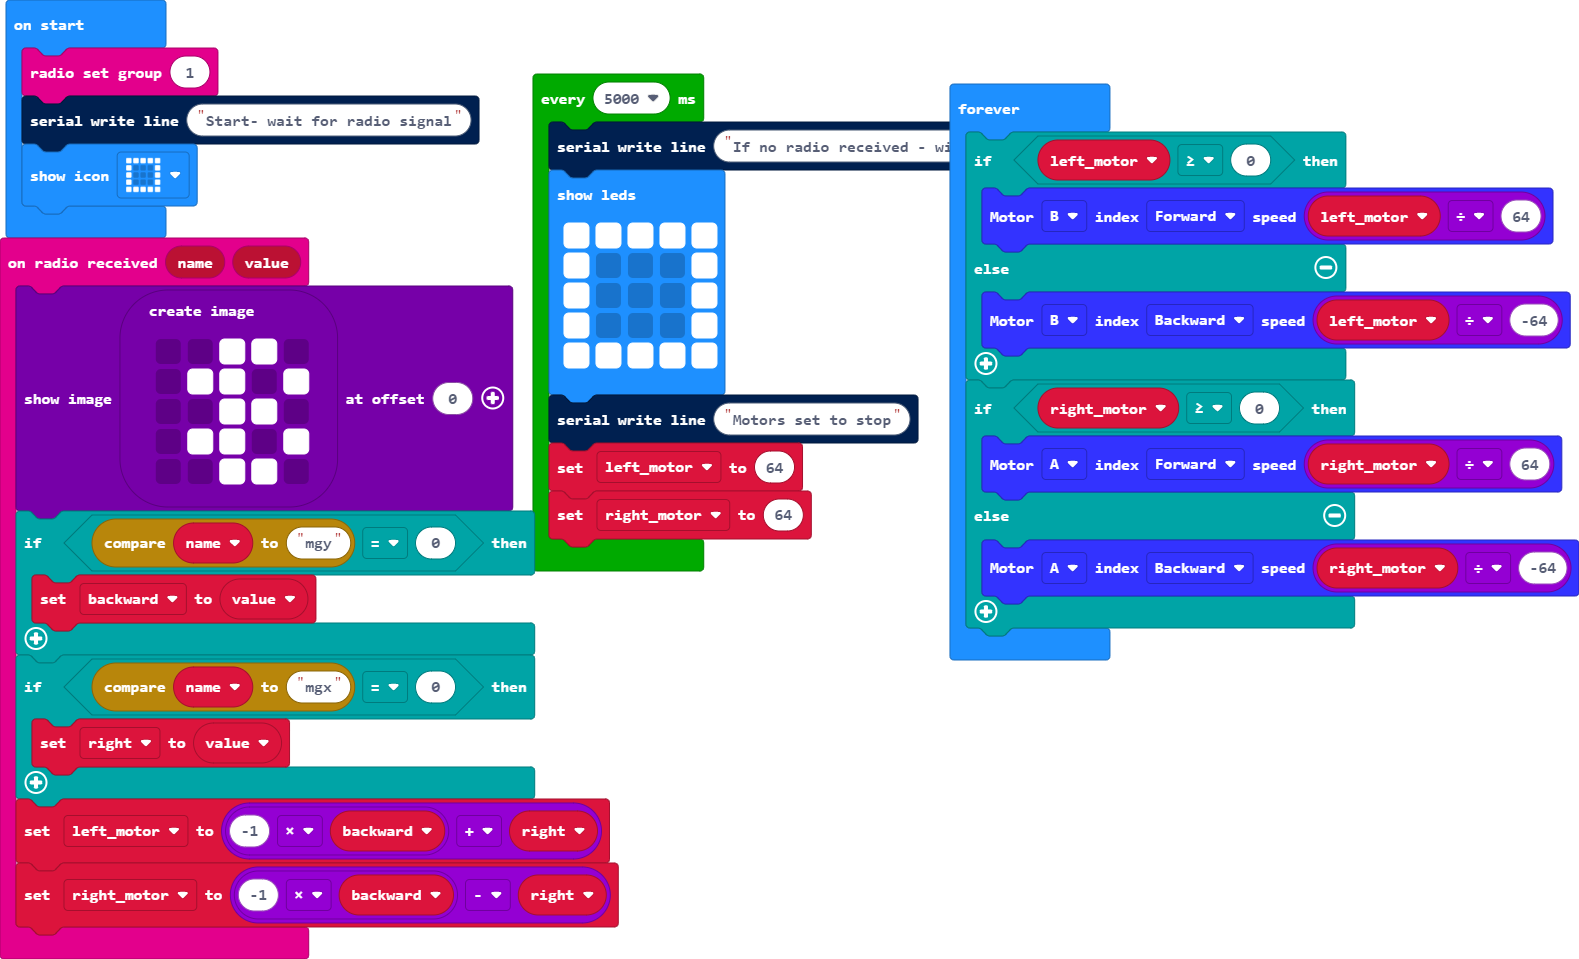
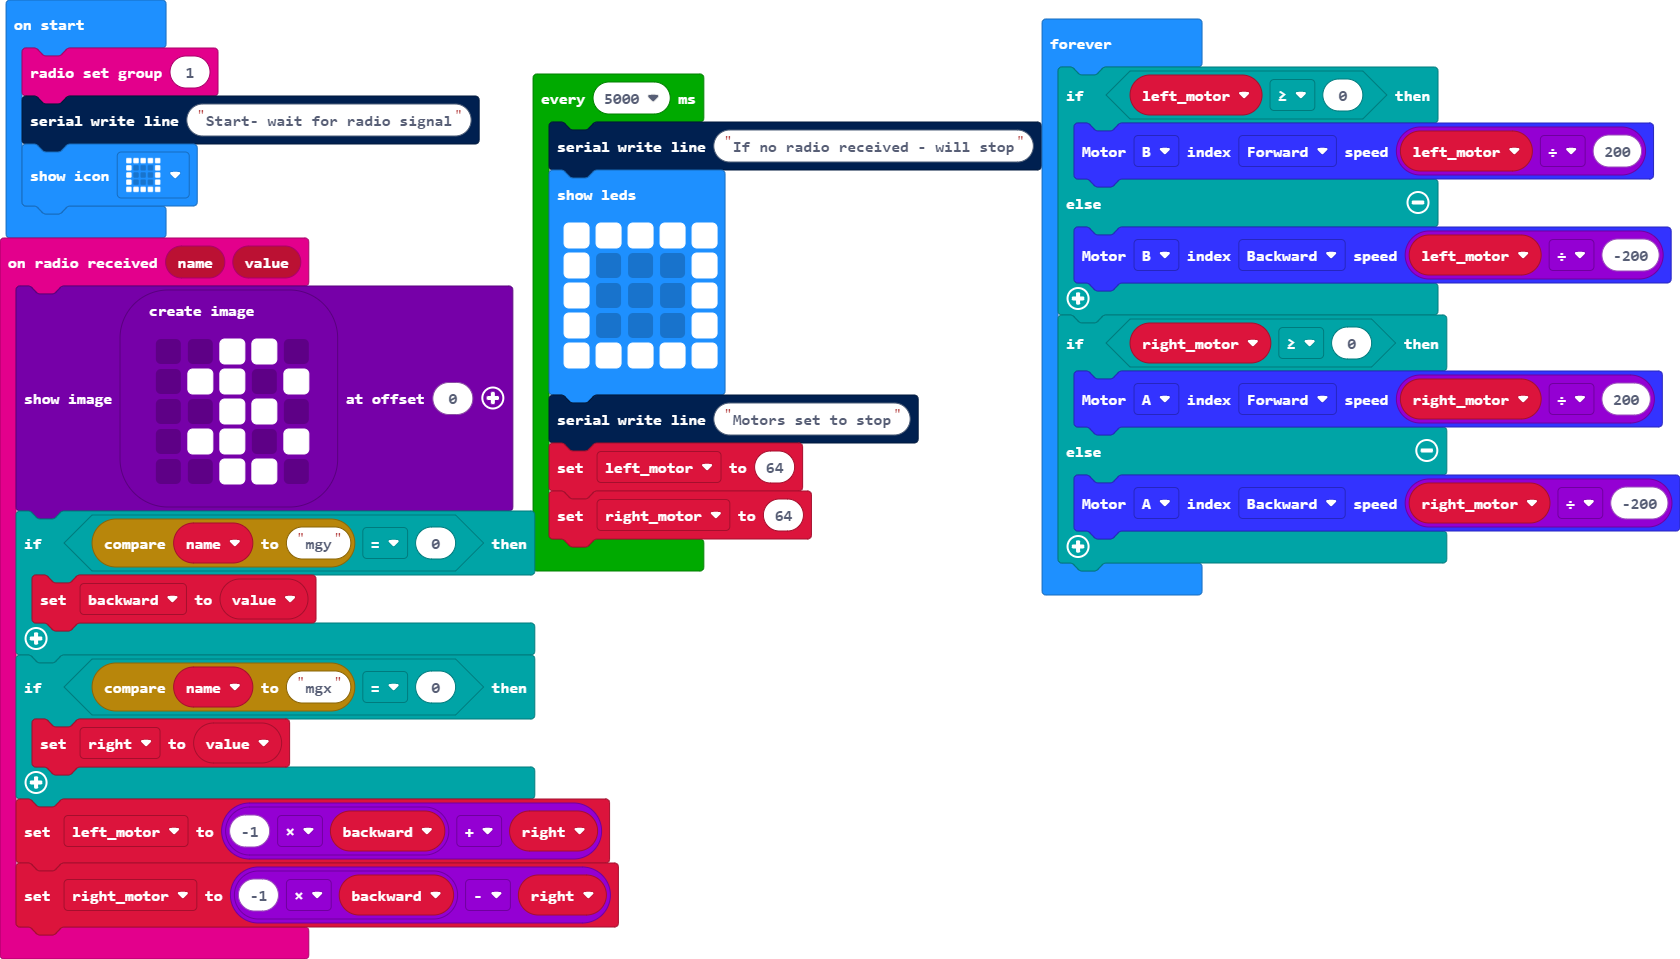
change the coefficient

Changed region(s): [[0.0, 0.0, 1.0, 1.0], [0.0, 0.3931, 0.0621, 0.4234]]

diff --git a/main.ts b/main.ts
@@ -24,14 +24,14 @@ serial.writeLine("Start- wait for radio signal")
 basic.showIcon(IconNames.Square)
 basic.forever(function () {
     if (left_motor >= 0) {
-        MotorDriver.MotorRun(Motor.B, Dir.forward, left_motor / 64)
+        MotorDriver.MotorRun(Motor.B, Dir.forward, left_motor / 200)
     } else {
-        MotorDriver.MotorRun(Motor.B, Dir.backward, left_motor / -64)
+        MotorDriver.MotorRun(Motor.B, Dir.backward, left_motor / -200)
     }
     if (right_motor >= 0) {
-        MotorDriver.MotorRun(Motor.A, Dir.forward, right_motor / 64)
+        MotorDriver.MotorRun(Motor.A, Dir.forward, right_motor / 200)
     } else {
-        MotorDriver.MotorRun(Motor.A, Dir.backward, right_motor / -64)
+        MotorDriver.MotorRun(Motor.A, Dir.backward, right_motor / -200)
     }
 })
 loops.everyInterval(5000, function () {
